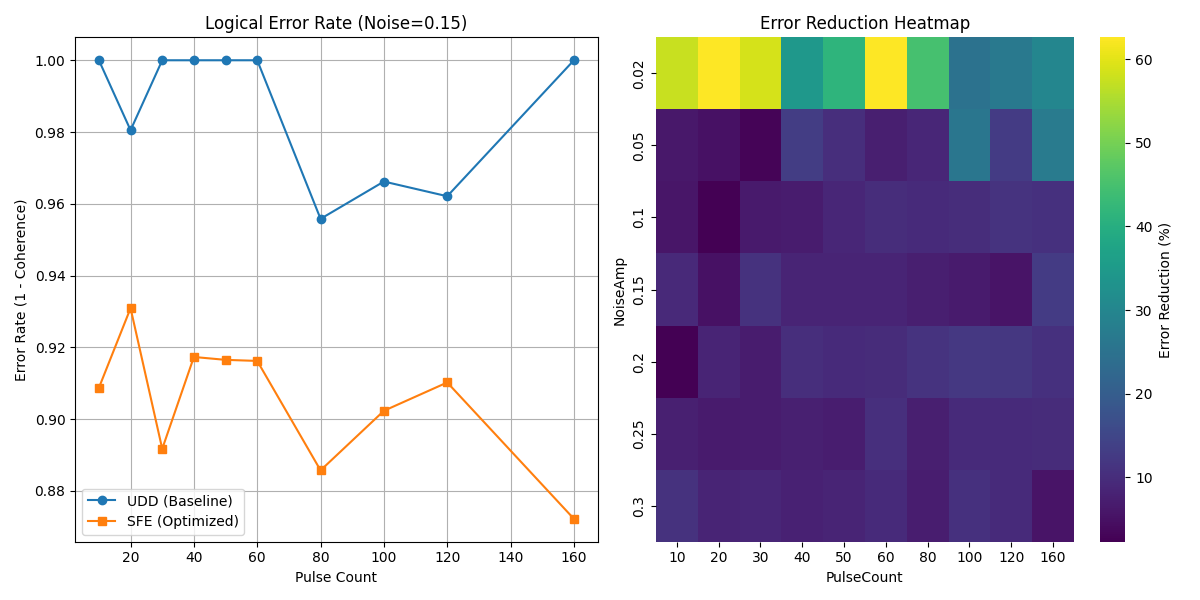
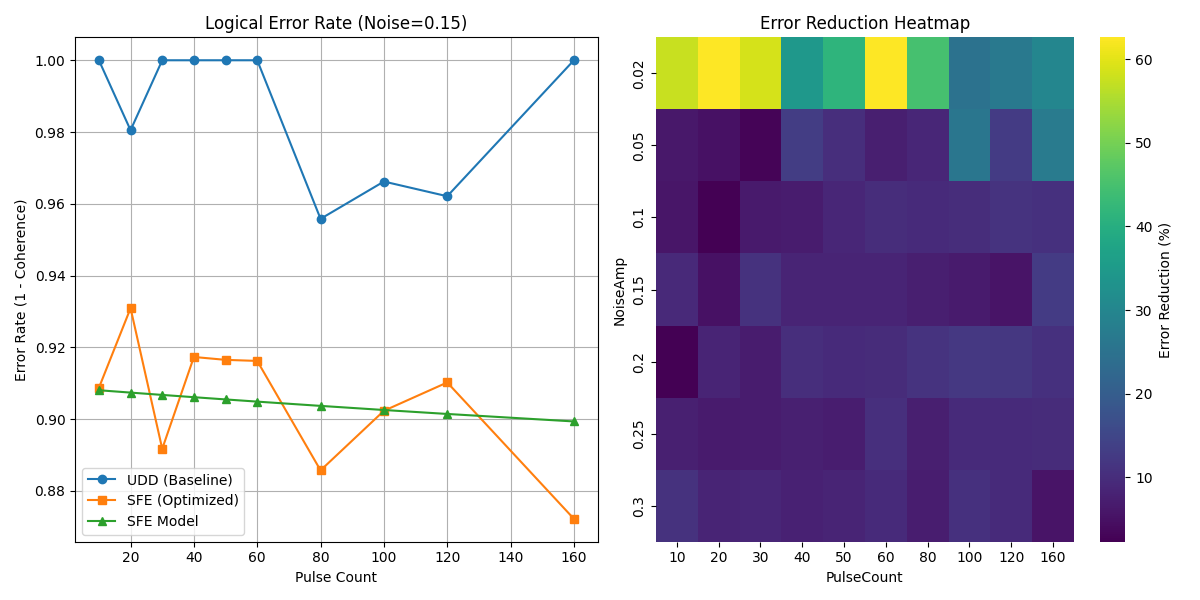
1126

Changed region(s): [[0.0617, 0.78, 0.2158, 0.9], [0.0617, 0.63, 0.37, 0.69], [0.37, 0.69, 0.4933, 0.72]]

diff --git a/examples/physics/analyze_ibm_error.py b/examples/physics/analyze_ibm_error.py
@@ -2,6 +2,7 @@ import pandas as pd
 import matplotlib.pyplot as plt
 import numpy as np
 import seaborn as sns
+from sfe import sfe_error_model, fit_sfe_error_params
 
 def analyze_error_rates():
     # Load sweep results
@@ -44,6 +45,17 @@ def analyze_error_rates():
         print(f"\nDetailed Stats at Noise Amp = {target_noise}:")
         print(subset[['PulseCount', 'Error_UDD', 'Error_SFE', 'Reduction_Rate']].to_string(index=False))
         
+        subset = subset.copy()
+        params = fit_sfe_error_params(subset['PulseCount'].values, subset['Error_SFE'].values)
+        min_pulse = subset['PulseCount'].min()
+        subset['PulseStep'] = subset['PulseCount'] / float(min_pulse)
+        subset['Error_SFE_Model'] = sfe_error_model(params.e0, params.e_min, params.r, subset['PulseStep'].values)
+        model_mae = np.mean(np.abs(subset['Error_SFE'] - subset['Error_SFE_Model']))
+        
+        print(f"\nSFE Error Model (R={params.r:.3f}, Emin={params.e_min:.4f}) at Noise Amp = {target_noise}:")
+        print(subset[['PulseCount', 'Error_SFE', 'Error_SFE_Model']].to_string(index=False))
+        print(f"Mean abs error between model and data: {model_mae:.4f}")
+        
         # Visualization
         plt.figure(figsize=(12, 6))
         
@@ -51,6 +63,7 @@ def analyze_error_rates():
         plt.subplot(1, 2, 1)
         plt.plot(subset['PulseCount'], subset['Error_UDD'], 'o-', label='UDD (Baseline)')
         plt.plot(subset['PulseCount'], subset['Error_SFE'], 's-', label='SFE (Optimized)')
+        plt.plot(subset['PulseCount'], subset['Error_SFE_Model'], '^-', label='SFE Model')
         plt.title(f"Logical Error Rate (Noise={target_noise})")
         plt.xlabel("Pulse Count")
         plt.ylabel("Error Rate (1 - Coherence)")

diff --git a/sfe/quantum.py b/sfe/quantum.py
@@ -58,3 +58,42 @@ def _fidelity(rho: np.ndarray, target: np.ndarray) -> float:
     return float(np.real(np.trace(target @ rho)))
 
 
+class SFEErrorModel:
+    def __init__(self, e0: float, e_min: float, r: float):
+        self.e0 = float(e0)
+        self.e_min = float(e_min)
+        self.r = float(r)
+
+    def value(self, steps):
+        s = np.asarray(steps, dtype=float)
+        return self.e_min + (self.e0 - self.e_min) * np.exp(-self.r * s)
+
+
+def sfe_error_model(e0: float, e_min: float, r: float, steps):
+    model = SFEErrorModel(e0, e_min, r)
+    return model.value(steps)
+
+
+def fit_sfe_error_params(pulse_counts, errors) -> SFEErrorModel:
+    pc = np.asarray(pulse_counts, dtype=float)
+    err = np.asarray(errors, dtype=float)
+    min_pulse = float(pc.min())
+    steps = pc / min_pulse
+    e_min = float(err.min())
+    idx0 = int(np.argmin(pc))
+    e0 = float(err[idx0])
+    denom = e0 - e_min
+    if denom <= 0.0:
+        return SFEErrorModel(e0, e_min, 0.0)
+    num = err - e_min
+    mask = num > 0.0
+    x = steps[mask]
+    y = np.log(num[mask] / denom)
+    if x.size == 0:
+        r = 0.0
+    else:
+        r = -float((x * y).sum() / (x * x).sum())
+        if not np.isfinite(r):
+            r = 0.0
+    return SFEErrorModel(e0, e_min, r)
+

diff --git a/sfe/__init__.py b/sfe/__init__.py
@@ -1,3 +1,1 @@
-from .quantum import QuantumCorrection, SFEActiveCanceller, _fidelity
-
-
+from .quantum import QuantumCorrection, SFEActiveCanceller, SFEFieldModel, _fidelity, SFEErrorModel, sfe_error_model, fit_sfe_error_params
